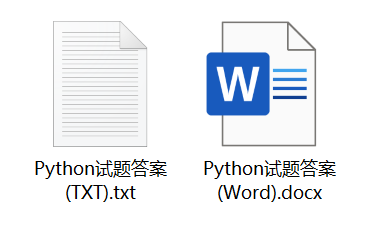
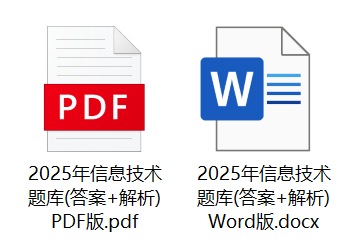
Update 2025 Ans and Fix some URLs

Changed region(s): [[0.0608, 0.0913, 0.4558, 0.913], [0.547, 0.0913, 0.9116, 0.913]]

diff --git a/4-2.html b/4-2.html
@@ -1,6 +1,5 @@
 <!DOCTYPE html>
 <html lang="zh-CN">
-
 <head>
     <meta charset="UTF-8">
     <meta name="viewport" content="width=device-width, initial-scale=1.0">
@@ -10,13 +9,12 @@
     <link rel="stylesheet" href="style.css">
     <link rel="stylesheet" href="doc.css">
     <link rel="icon" href="favicon.ico" type="image/x-icon" />
-    <title>4.2 Python试题答案 - 菏泽初中信息技术考试练习系统安装教程 - Dan_Evan's Website</title>
+    <title>4.2 2025年题库答案 - 菏泽初中信息技术考试练习系统安装教程 - Dan_Evan's Website</title>
 </head>
-
 <body>
     <!-- 标题栏 -->
     <div class="header" id="header">
-        <b><a href="https://elofhew.github.io/" target="_blank">DE's Website</a></b>
+        <b><a href="https://www.danevan.top/" target="_blank">DE's Website</a></b>
         <div class="header-right">
             <a href="index.html">首页</a>
             <a href="#sidebar">展开目录</a>
@@ -28,37 +26,34 @@
     <!-- 内容 -->
     <div class="container">
         <div class="markdown-body">
-            <h1>4.2 Python试题答案</h1>
+            <h1>4.2 2025年题库答案</h1>
             <div class="scroll-offset" id="download">
                 <h2>下载</h2>
                 <h3>夸克网盘</h3>
-                <p><a href="https://pan.quark.cn/s/1c5ff48fba85" target="_blank"
-                        class="button">https://pan.quark.cn/s/1c5ff48fba85</a></p>
+                <p><a href="https://pan.quark.cn/s/1c5ff48fba85" target="_blank" class="button">https://pan.quark.cn/s/1c5ff48fba85</a></p>
                 <h3>小飞机网盘</h3>
-                <p><a href="https://share.feijipan.com/s/BwZXX3Rg" target="_blank"
-                        class="button">https://share.feijipan.com/s/BwZXX3Rg</a></p>
+                <p><a href="https://share.feijipan.com/s/BwZXX3Rg" target="_blank" class="button">https://share.feijipan.com/s/BwZXX3Rg</a></p>
             </div>
             <div class="scroll-offset" id="intro">
                 <h2>说明</h2>
-                <p>提供了两种文件格式，TXT和Word(docx)，均可供查阅。</p>
-                <img src="img/4/4-2-1.png" alt="Python试题答案" />
+                <p>提供了两种文件格式，PDF和Word(docx)，均可供查阅。</p>
+                <img src="img/4/4-2-1.png" alt="2025年题库答案" />
+                <blockquote class="markdown-alert markdown-alert-tip">
+                    <p>注：该答案为完整版（包含Python答案）</p>
+                </blockquote>
             </div>
             <div class="scroll-offset" id="online">
                 <h2>在线查阅</h2>
                 <p>以下链接可以直接在浏览器里在线打开答案进行查阅，无需下载。</p>
-                </p>
-                <p><a href="https://docs.qq.com/doc/DV0tzVXB4dWRFRFpM" target="_blank"
-                        class="button-in-text">【腾讯文档】Python试题答案(TXT)</a></p>
-                <p><a href="https://docs.qq.com/doc/DV3ZOdVRLc3VCbG9Z" target="_blank"
-                        class="button-in-text">【腾讯文档】Python试题答案(Word)</a></p>
+                <p><a href="https://docs.qq.com/pdf/DV0tFZHRDenpBT3Vr" target="_blank" class="button-in-text">【腾讯文档】2025年信息技术题库(答案+解析)PDF版</a></p>
+                <p><a href="https://docs.qq.com/doc/DV0xNSmVLUm9YbXNz" target="_blank" class="button-in-text">【腾讯文档】2025年信息技术题库(答案+解析)Word版</a></p>
             </div>
             <hr />
-            <p>（本章节结束）<b><a href="index.html">[返回首页]</a></b></p>
+            <p>（本章节结束）<b><a href="4-2.html">[下一章节]</a></b></p>
             <footer>
                 <p>Copyright &copy 2025~2026 Dan_Evan. All rights reserved.</p>
             </footer>
         </div>
     </div>
 </body>
-
 </html>

diff --git a/index.html b/index.html
@@ -16,7 +16,7 @@
 <body>
     <!-- 标题栏 -->
     <div class="header" id="header">
-        <b><a href="https://elofhew.github.io/" target="_blank">DE's Website</a></b>
+        <b><a href="https://www.danevan.top/" target="_blank">DE's Website</a></b>
         <div class="header-right">
             <a href="index.html">首页</a>
             <a href="#sidebar">展开目录</a>
@@ -32,7 +32,7 @@
             <p>作者：<a href="https://space.bilibili.com/642688364" target="_blank">Dan_Evan</a></p>
             <p><a href="old/" target="_blank" class="button-in-text">阅读旧版教程</a></p>
             <p>本文永久链接：<a href="https://hzexam.pages.dev/">hzexam.pages.dev</a></p>
-            <p><b>最后更新时间：2026年1月28日</b></p>
+            <p><b>最后更新时间：2026年4月28日(小更新) / 2026年1月28日(大更新)</b></p>
             <div class="scroll-offset" id="welcome">
                 <h2>欢迎</h2>
                 <p>欢迎访问本教程，本教程将帮助您快速安装并使用菏泽初中信息技术考试练习系统。</p>
@@ -83,7 +83,7 @@
                         <a href="4.html" target="_blank">④ 练习试题答案</a>
                         <ul>
                             <li><a href="4-1.html" target="_blank">4.1 2024年题库答案</a></li>
-                            <li><a href="4-2.html" target="_blank">4.2 Python试题答案</a></li>
+                            <li><a href="4-2.html" target="_blank">4.2 2025年题库答案</a></li>
                         </ul>
                     </li>
                 </ul>
@@ -93,7 +93,7 @@
                 <ul>
                     <li>QQ：<a href="https://qm.qq.com/q/BPdpfotZgQ"
                             target="_blank">@Dr.Evan.</a><br />QQ号：2352235176</li>
-                    <li>微信：<a href="https://elofhew.github.io/img/mmqrcode.png" target="_blank">@Evan.</a><br />微信号：Evan457666</li>
+                    <li>微信：<a href="https://www.danevan.top/img/mmqrcode.png" target="_blank">@Evan.</a><br />微信号：Evan457666</li>
                     <li>邮箱(1)：<a href="mailto:dan_evan233@outlook.com" target="_blank">dan_evan233@outlook.com</a></li>
                     <li>邮箱(2)：<a href="mailto:2352235176@qq.com" target="_blank">2352235176@qq.com</a></li>
                 </ul>

diff --git a/4.html b/4.html
@@ -14,7 +14,7 @@
 <body>
     <!-- 标题栏 -->
     <div class="header" id="header">
-        <b><a href="https://elofhew.github.io/" target="_blank">DE's Website</a></b>
+        <b><a href="https://www.danevan.top/" target="_blank">DE's Website</a></b>
         <div class="header-right">
             <a href="index.html">首页</a>
             <a href="#sidebar">展开目录</a>
@@ -31,9 +31,14 @@
                 <h2>序言</h2>
                 <p>在本章节，我会提供两份答案，分别是：</p>
                 <ul>
-                    <li>①：2024年菏泽初中信息技术考试题库答案</li>
-                    <li>②：Python补全代码填空试题答案</li>
+                    <li>①：2024年菏泽初中信息技术考试题答案</li>
+                    <li>②：2025年菏泽初中信息技术考试题答案</li>
                 </ul>
+                <img src="img/4/4-1-1.png" alt="2024年题库答案" />
+                <p class="pic_tip">2024年题库答案</p>
+                <img src="img/4/4-2-1.png" alt="2025年题库答案" />
+                <p class="pic_tip">2025年题库答案</p>
+                <p>其中，2024年答案适用于V1.6，2025年答案适用于V2.0，专用于V2.2的答案暂缺（但题库差异不大，基本可以直接参考2025年答案）。</p>
             </div>
             <div class="scroll-offset" id="download">
                 <h2>下载答案</h2>
@@ -47,7 +52,7 @@
                 <h2>答案列表</h2>
                 <h3>2024年题库答案</h3>
                 <a href="4-1.html" class="button-in-text"><b>点击这里</b></a>
-                <h3>Python试题答案</h3>
+                <h3>2025年题库答案</h3>
                 <a href="4-2.html" class="button-in-text"><b>点击这里</b></a>
             </div>
             <hr />

diff --git a/style.css b/style.css
@@ -1,5 +1,5 @@
 body {
-    font-family: "MiSans", "微软雅黑", "Microsoft YaHei", "Helvetica Neue", Helvetica, Arial, sans-serif;
+    font-family: "微软雅黑", "Microsoft YaHei", "MiSans", "HarmonyOS Sans", "Google Sans", "PingFang SC", "Noto Sans CJK SC", "Noto Sans SC", "Roboto", "Helvetica Neue", Helvetica, Arial, sans-serif;
     margin: 0;
 }
 
@@ -9,6 +9,7 @@ a, a:hover, a:active, a:visited {
 
 .header {
     background-color: rgb(230, 230, 230);
+    font-family: "MiSans";
     height: 50px;
     position: fixed;
     top: 0;
@@ -88,6 +89,7 @@ a, a:hover, a:active, a:visited {
     position: fixed;
     top: 0;
     left: 0;
+    font-family: "MiSans";
     width: 220px;
     height: calc(100% - 50px);
     background-color: #f4f4f4;

diff --git a/old/index.html b/old/index.html
@@ -14,8 +14,8 @@
             <p><b>DE's Website</b></p>
         </div>
         <nav class="nav">
-            <a href="https://elofhew.github.io/">主站</a>
-            <a href="https://elofhew.github.io/Blogs/" target="_blank">博客</a>
+            <a href="https://www.danevan.top/">主站</a>
+            <a href="https://www.danevan.top/Blogs/" target="_blank">博客</a>
         </nav>
         </div>
         <div class="content">

diff --git a/1-1.html b/1-1.html
@@ -14,7 +14,7 @@
 <body>
     <!-- 标题栏 -->
     <div class="header" id="header">
-        <b><a href="https://elofhew.github.io/" target="_blank">DE's Website</a></b>
+        <b><a href="https://www.danevan.top/" target="_blank">DE's Website</a></b>
         <div class="header-right">
             <a href="index.html">首页</a>
             <a href="#sidebar">展开目录</a>

diff --git a/1-2.html b/1-2.html
@@ -14,7 +14,7 @@
 <body>
     <!-- 标题栏 -->
     <div class="header" id="header">
-        <b><a href="https://elofhew.github.io/" target="_blank">DE's Website</a></b>
+        <b><a href="https://www.danevan.top/" target="_blank">DE's Website</a></b>
         <div class="header-right">
             <a href="index.html">首页</a>
             <a href="#sidebar">展开目录</a>

diff --git a/1.html b/1.html
@@ -14,7 +14,7 @@
 <body>
     <!-- 标题栏 -->
     <div class="header" id="header">
-        <b><a href="https://elofhew.github.io/" target="_blank">DE's Website</a></b>
+        <b><a href="https://www.danevan.top/" target="_blank">DE's Website</a></b>
         <div class="header-right">
             <a href="index.html">首页</a>
             <a href="#sidebar">展开目录</a>

diff --git a/2-1.html b/2-1.html
@@ -14,7 +14,7 @@
 <body>
     <!-- 标题栏 -->
     <div class="header" id="header">
-        <b><a href="https://elofhew.github.io/" target="_blank">DE's Website</a></b>
+        <b><a href="https://www.danevan.top/" target="_blank">DE's Website</a></b>
         <div class="header-right">
             <a href="index.html">首页</a>
             <a href="#sidebar">展开目录</a>

diff --git a/2-2.html b/2-2.html
@@ -14,7 +14,7 @@
 <body>
     <!-- 标题栏 -->
     <div class="header" id="header">
-        <b><a href="https://elofhew.github.io/" target="_blank">DE's Website</a></b>
+        <b><a href="https://www.danevan.top/" target="_blank">DE's Website</a></b>
         <div class="header-right">
             <a href="index.html">首页</a>
             <a href="#sidebar">展开目录</a>

diff --git a/2.html b/2.html
@@ -14,7 +14,7 @@
 <body>
     <!-- 标题栏 -->
     <div class="header" id="header">
-        <b><a href="https://elofhew.github.io/" target="_blank">DE's Website</a></b>
+        <b><a href="https://www.danevan.top/" target="_blank">DE's Website</a></b>
         <div class="header-right">
             <a href="index.html">首页</a>
             <a href="#sidebar">展开目录</a>

diff --git a/3-1.html b/3-1.html
@@ -14,7 +14,7 @@
 <body>
     <!-- 标题栏 -->
     <div class="header" id="header">
-        <b><a href="https://elofhew.github.io/" target="_blank">DE's Website</a></b>
+        <b><a href="https://www.danevan.top/" target="_blank">DE's Website</a></b>
         <div class="header-right">
             <a href="index.html">首页</a>
             <a href="#sidebar">展开目录</a>
